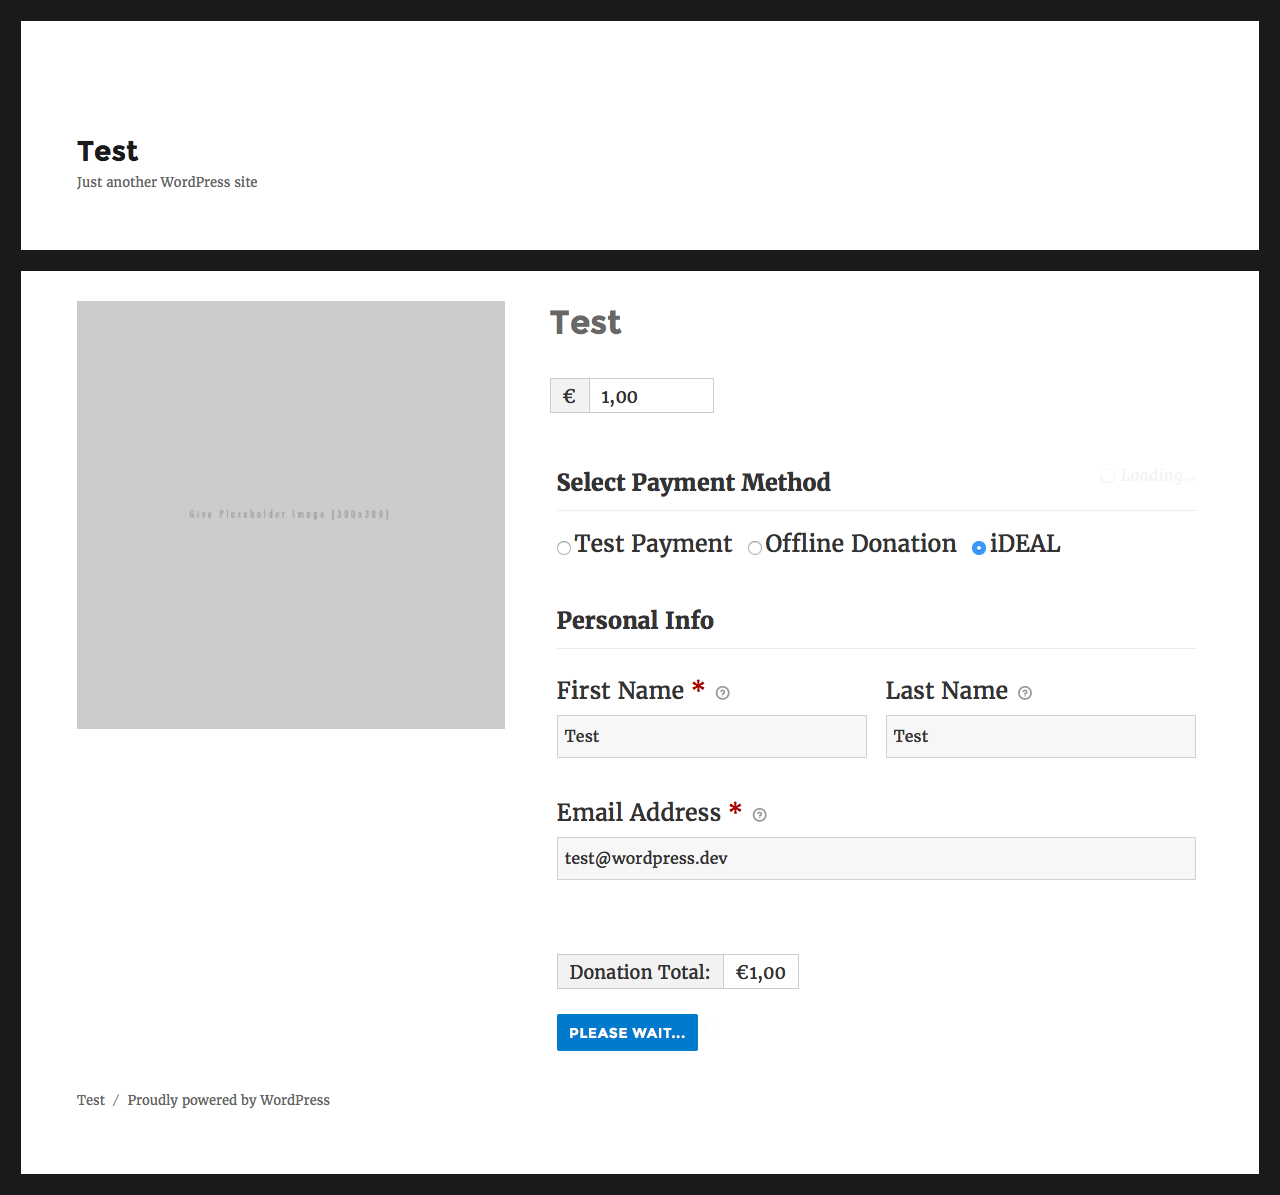
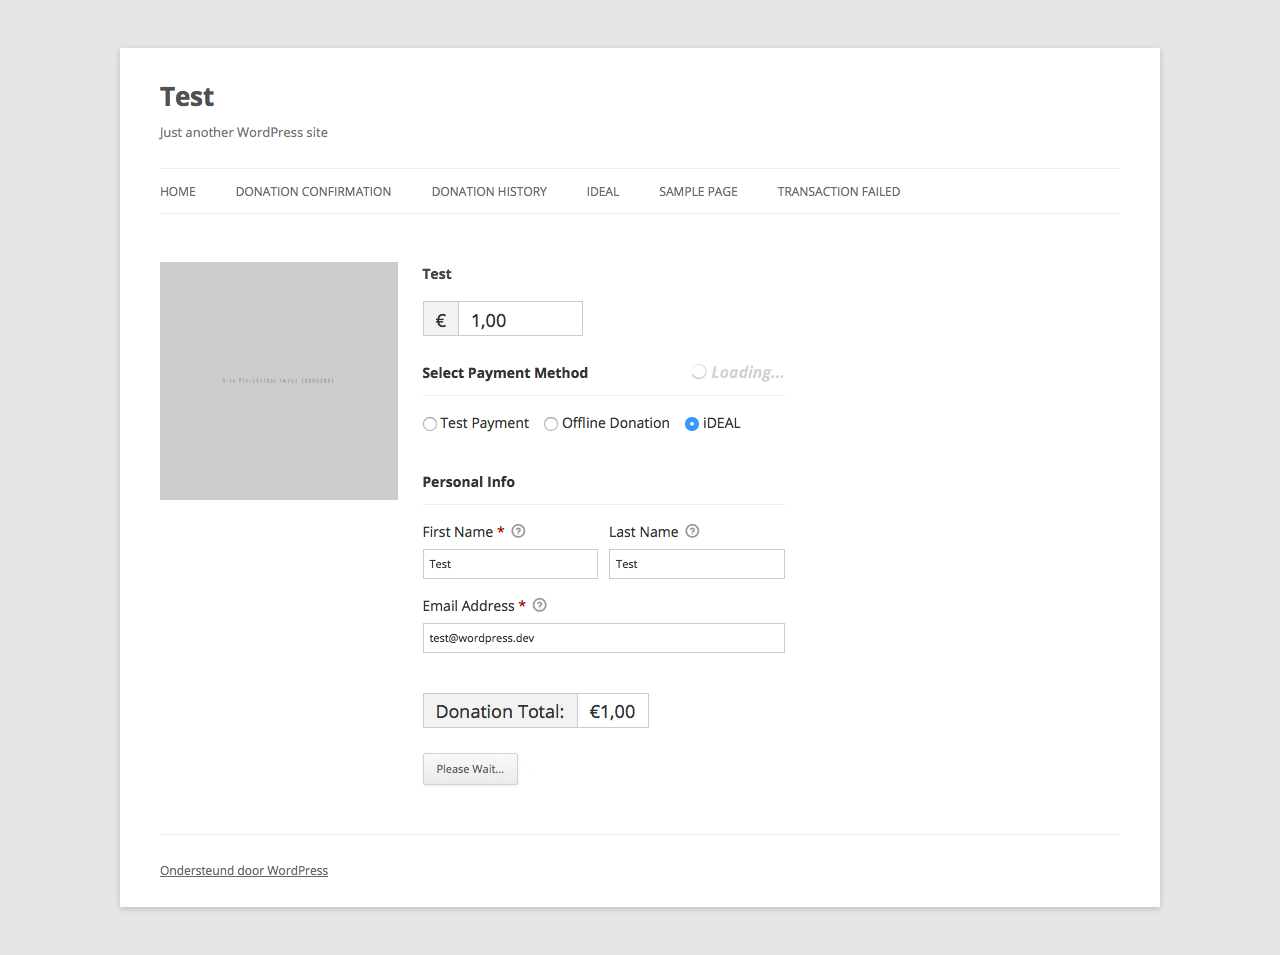
Switched to twentytwelve.

diff --git a/tests/GiveTest.php b/tests/GiveTest.php
@@ -30,6 +30,10 @@ class Pronamic_WP_Pay_TestSuite_GiveTest extends Pronamic_WP_Pay_TestSuite_TestC
 			mkdir( $this->screenshots_dir, 0777, true );
 		}
 
+		// Theme
+		$cli->passthru( 'wp theme install twentytwelve' );
+		$cli->passthru( 'wp theme activate twentytwelve' );
+
 		// Give
 		// $cli->passthru( sprintf( 'wp plugin install give --activate --version=%s', $this->version_give ) );
 
